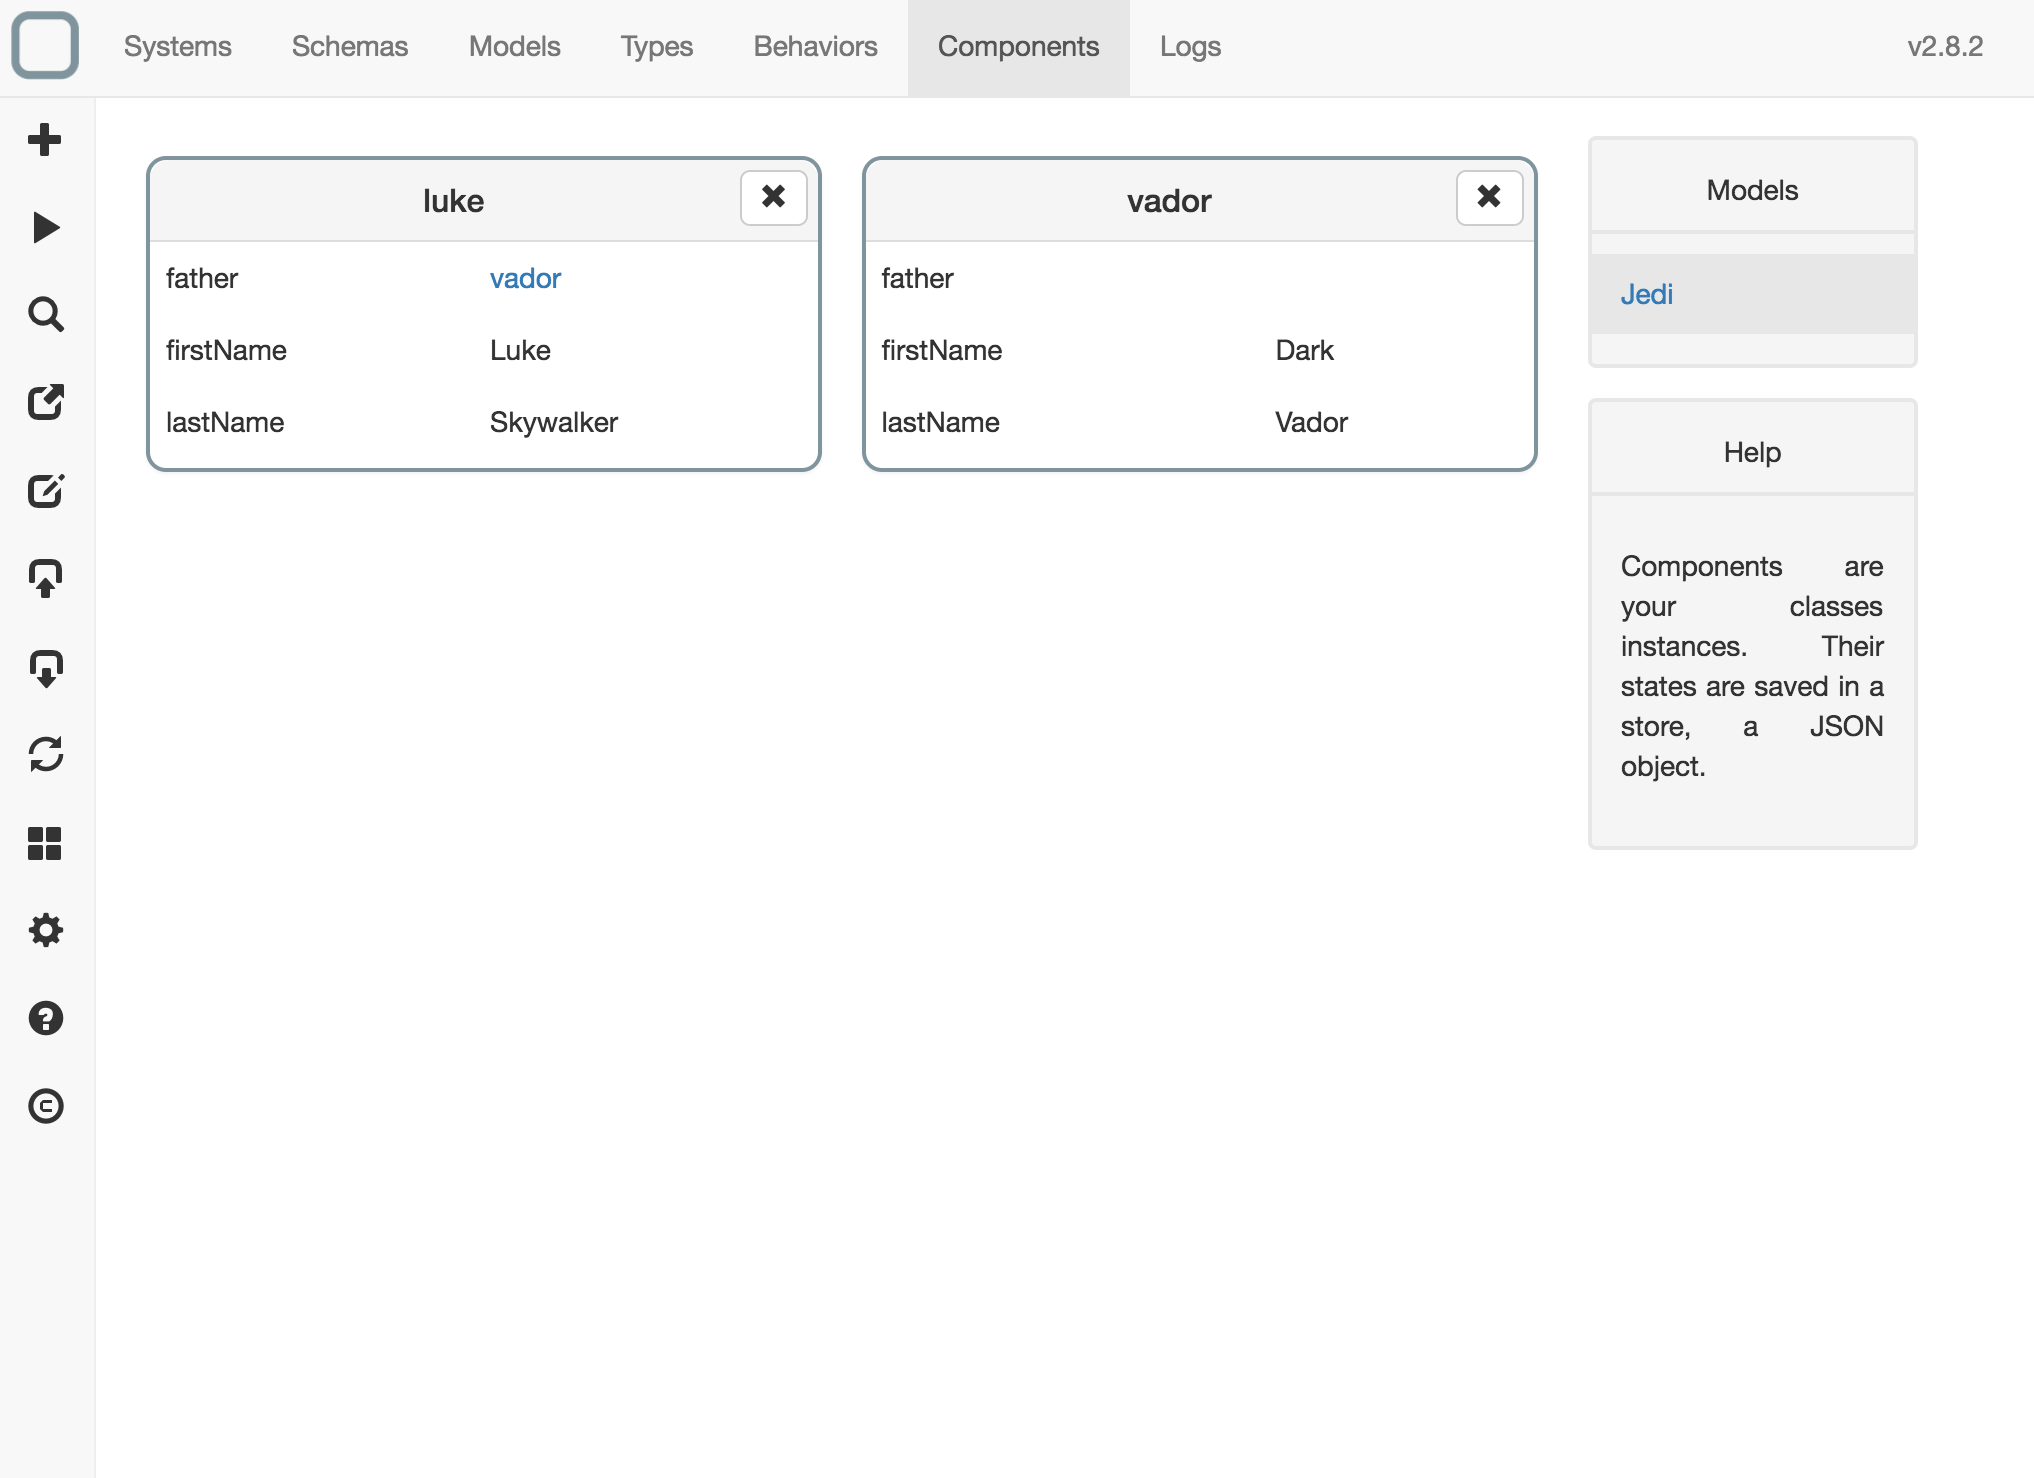
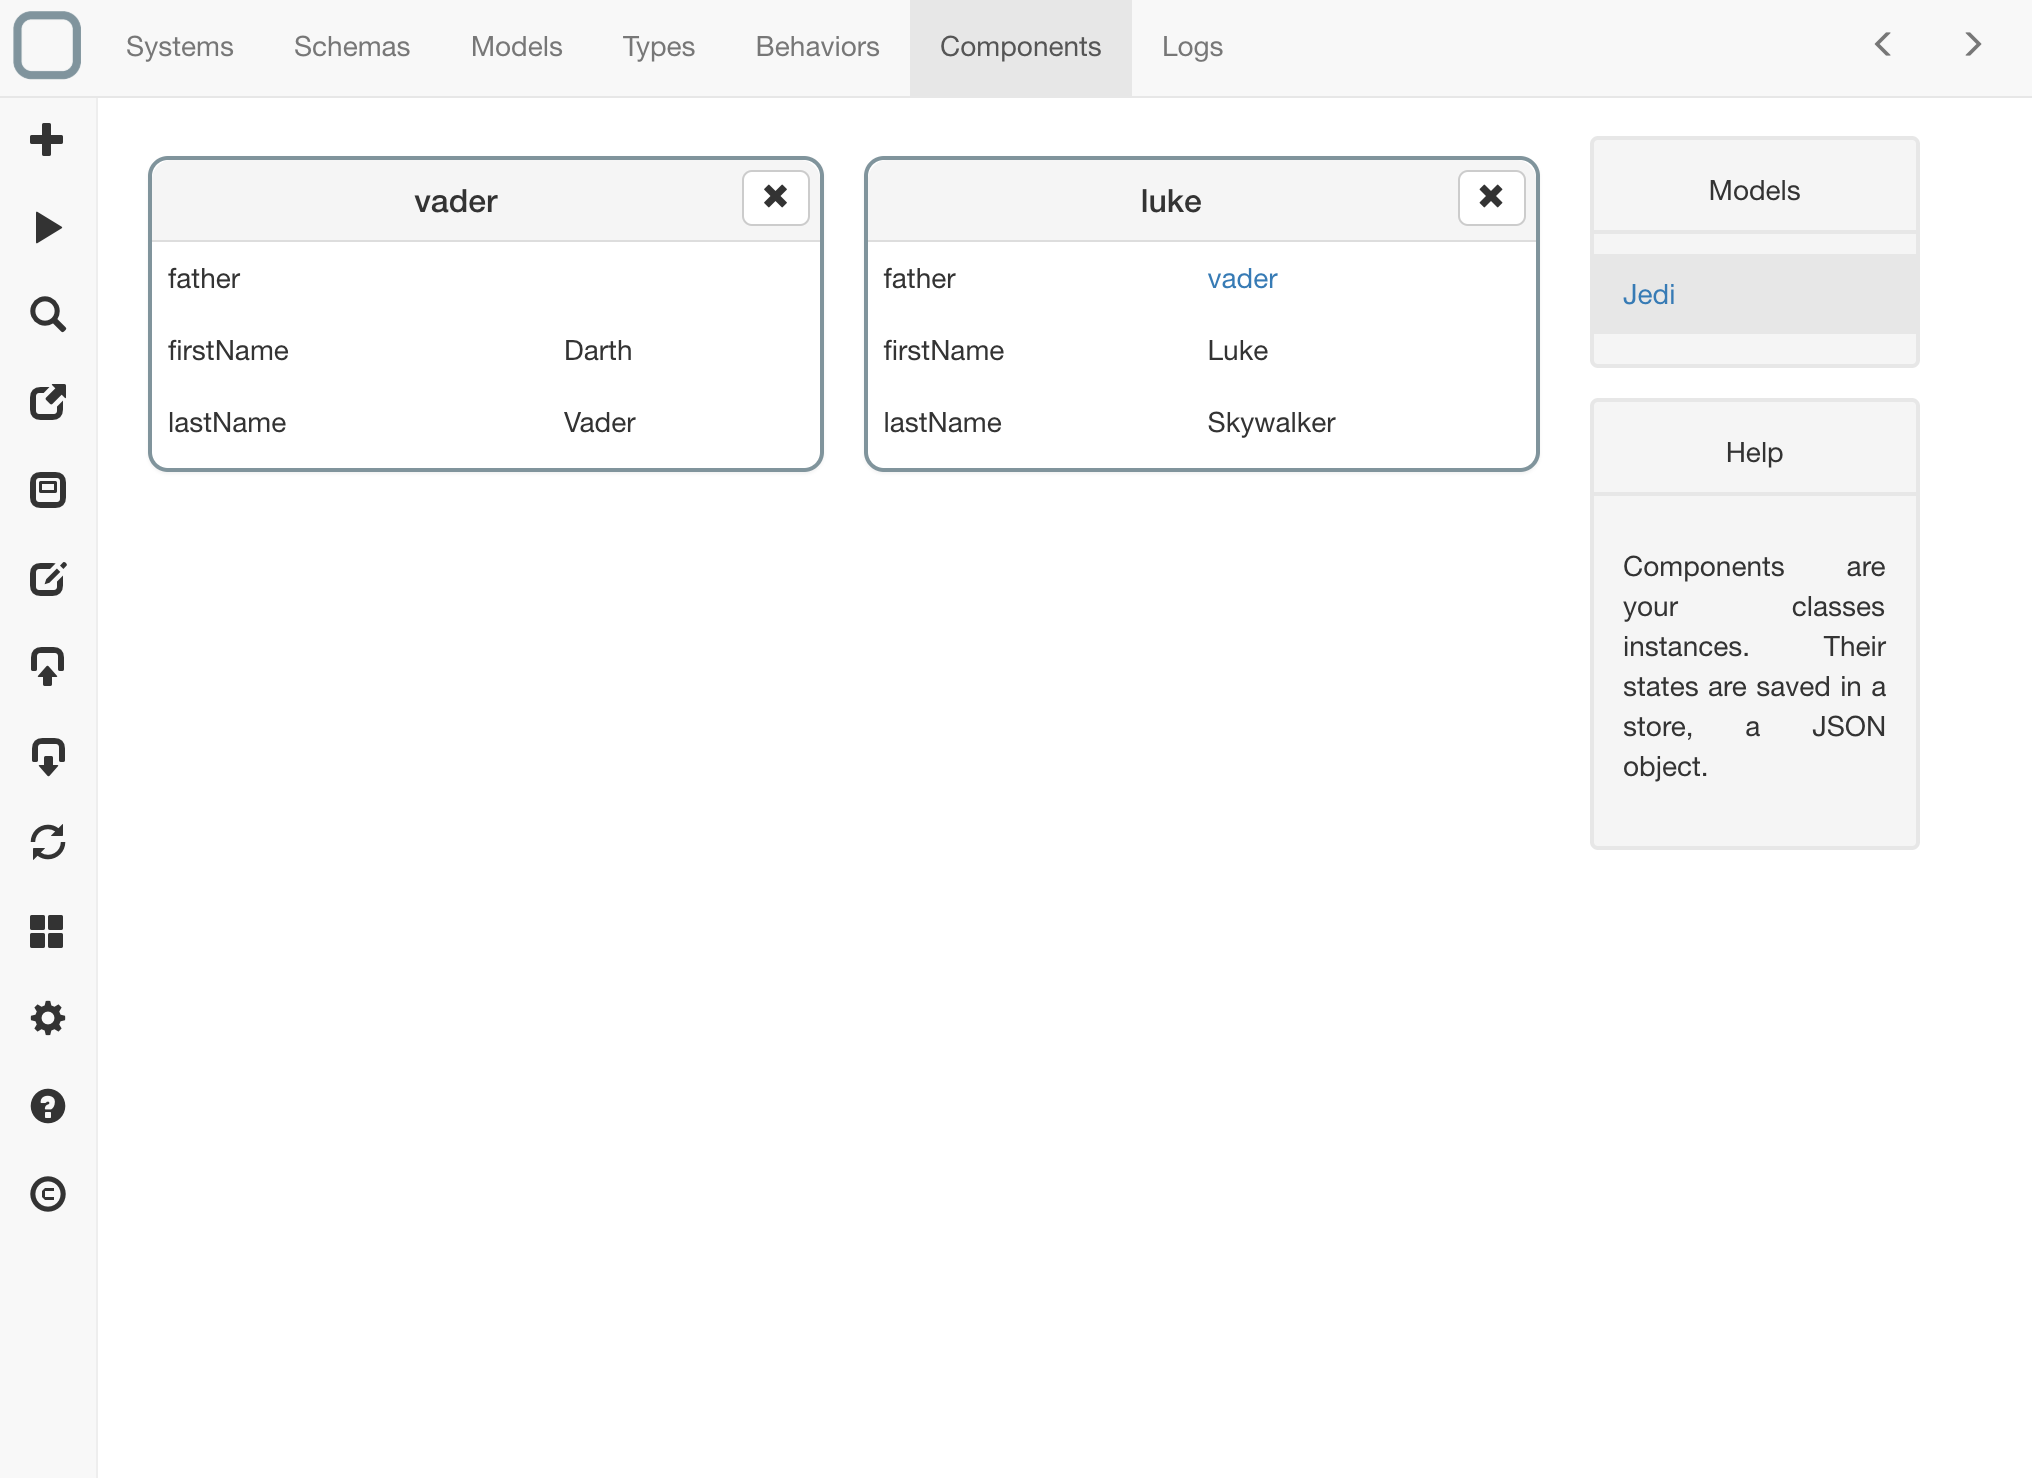
update images

diff --git a/docs/Create a Behavior.md b/docs/Create a Behavior.md
@@ -84,10 +84,10 @@ You can directly use it in your code:
 this.father();
 
 // get a component
-const vador = this.require('vador');
+const vader = this.require('vader');
 
 // set the link value with the component
-this.father(vador);
+this.father(vader);
 ```
 
 ## Use a collection
@@ -122,13 +122,13 @@ this.children(0);
 this.children([]);
 
 // get a component
-const vador = this.require('vador');
+const vader = this.require('vader');
 
 // add the component at the first place of the collection
-this.children(0, vador);
+this.children(0, vader);
 
 // add the component at the last place of the collection
-this.children().push(vador);
+this.children().push(vader);
 ```
 
 ## Use a method

diff --git a/docs/Quick Start.md b/docs/Quick Start.md
@@ -206,7 +206,7 @@ function fullName() {
 
 ```json
 {
-  "_id": "vador",
+  "_id": "vader",
   "father": "",
   "firstName": "Darth",
   "lastName": "Vader"
@@ -225,7 +225,7 @@ function fullName() {
 ```json
 {
   "_id": "luke",
-  "father": "vador",
+  "father": "vader",
   "firstName": "Luke",
   "lastName": "Skywalker"
 }
